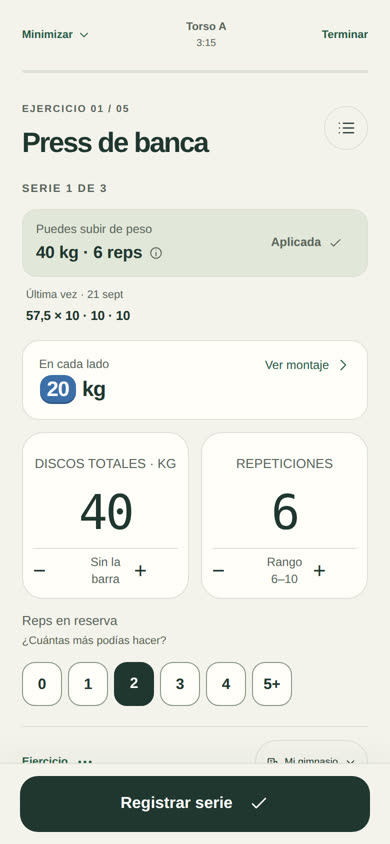
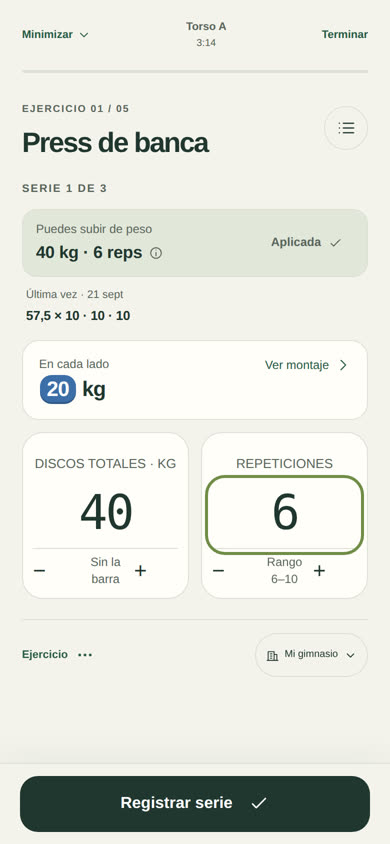
Ask for reps in reserve only when logging in beta 3.14.0
The set form showed a "Reps en reserva" row with an "Elegir" button,
and "Registrar serie" asked for the same value in a sheet anyway. The
row is gone: effort is asked once, on logging, and choosing it confirms
the set in the same tap. The sheet's buttons now enter staggered.

Claude-Session: https://claude.ai/code/session_015cSCpVDGotuvPg9Z1LTxFM

diff --git a/ui.js b/ui.js
@@ -789,7 +789,7 @@ function uiSession(){
   const weightLabel=effEquip(ex.key)==='mancuerna'&&effPoints(ex.key)===2?'Total de las dos':discosOffset(ex.key)>0?'Discos totales':m.type==='asistido'?'Ayuda':corp?'Lastre opcional':'Peso';
   const offset=discosOffset(ex.key),hint=offset>0?'Sin '+(effEquip(ex.key)==='barra'?'la barra':'el aparato'):effEquip(ex.key)==='mancuerna'&&effPoints(ex.key)===2?'Suma ambas manos':m.type==='asistido'?'Menos ayuda = más esfuerzo':corp?'Vacío = sin lastre':uLabelEx(ex.key);
   const prev=ex.sets.slice(0,si).reverse().find(x=>x.done);
-  work=`<div class="n-current-label"><span class="n-eyebrow">Serie ${si+1} de ${ex.sets.length}</span>${prev?uiButton('Repetir anterior',uiAction('uiRepeatSet',xi),'copy','text'):''}</div>${ex.sugg?uiSetProposal(xi,!!prev):`<p class="n-first-hint">${corp?'Registra lo que completes.':'Elige una carga para tu rango.'}</p>`}${uiLastLoad(xi)}<div id="ui-load-${xi}">${uiLoadStrip(xi)}</div><div class="n-set-fields" id="set-${xi}-${si}"><div class="n-set-field"><label for="n-weight">${weightLabel} · ${uLabelEx(ex.key)}</label><input id="n-weight" aria-label="${weightLabel} · ${uLabelEx(ex.key)} · serie ${si+1}" aria-describedby="n-weight-help" type="number" min="0" inputmode="decimal" step="any" placeholder="${corp?'0':'—'}" value="${esc(st.w??'')}" oninput="this.setCustomValidity('');setVal(${xi},${si},'w',this.value)"><div class="n-stepper"><button aria-label="Reducir peso" onclick="uiStep(${xi},${si},'w',-1)">−</button><small id="n-weight-help">${hint}</small><button aria-label="Aumentar peso" onclick="uiStep(${xi},${si},'w',1)">+</button></div></div><div class="n-set-field"><label for="n-reps">${repsLabel}</label><input id="n-reps" aria-label="${repsLabel} de la serie ${si+1}" type="number" min="1" step="1" inputmode="numeric" placeholder="—" value="${esc(st.r??'')}" oninput="this.setCustomValidity('');setVal(${xi},${si},'r',this.value)"><div class="n-stepper"><button aria-label="Reducir ${repsLabel.toLowerCase()}" onclick="uiStep(${xi},${si},'r',-1)">−</button><small>Rango <span>${r.lo}–${r.hi}</span></small><button aria-label="Aumentar ${repsLabel.toLowerCase()}" onclick="uiStep(${xi},${si},'r',1)">+</button></div></div></div>${m.type==='tiempo'?`<div class="n-time-tools">${uiButton(s.setTimer?.key===ex.key&&s.setTimer.si===si?'Retomar cronómetro':'Medir esta serie',uiAction('startSetTimer',xi,si),'clock','text')}<span class="n-time-help">Por tiempo: no se usa RIR.</span></div>`:`<div class="n-rir n-rir-inline"><span>Reps en reserva<small>¿Cuántas más podías hacer?</small></span><div id="n-rir-choice" class="n-rir-chips" role="radiogroup" aria-required="true" aria-label="Repeticiones en reserva" tabindex="-1">${[0,1,2,3,4,5].map(n=>{const on=st.rir!==''&&st.rir!==undefined&&st.rir!==null&&Math.min(5,Number(st.rir))===n;return `<button type="button" role="radio" aria-checked="${on}" aria-label="${n===0?'0, al fallo':n===5?'5 o más':n}" onclick="uiPickRIR(${xi},${si},${n},this)">${n===5?'5+':n}</button>`;}).join('')}</div></div>`}<div class="n-record-dock">${uiButton('Registrar serie',uiAction('uiLogSet',xi,si),'check')}<span class="n-save-status" id="n-draft-status" role="status"></span></div>`;
+  work=`<div class="n-current-label"><span class="n-eyebrow">Serie ${si+1} de ${ex.sets.length}</span>${prev?uiButton('Repetir anterior',uiAction('uiRepeatSet',xi),'copy','text'):''}</div>${ex.sugg?uiSetProposal(xi,!!prev):`<p class="n-first-hint">${corp?'Registra lo que completes.':'Elige una carga para tu rango.'}</p>`}${uiLastLoad(xi)}<div id="ui-load-${xi}">${uiLoadStrip(xi)}</div><div class="n-set-fields" id="set-${xi}-${si}"><div class="n-set-field"><label for="n-weight">${weightLabel} · ${uLabelEx(ex.key)}</label><input id="n-weight" aria-label="${weightLabel} · ${uLabelEx(ex.key)} · serie ${si+1}" aria-describedby="n-weight-help" type="number" min="0" inputmode="decimal" step="any" placeholder="${corp?'0':'—'}" value="${esc(st.w??'')}" oninput="this.setCustomValidity('');setVal(${xi},${si},'w',this.value)"><div class="n-stepper"><button aria-label="Reducir peso" onclick="uiStep(${xi},${si},'w',-1)">−</button><small id="n-weight-help">${hint}</small><button aria-label="Aumentar peso" onclick="uiStep(${xi},${si},'w',1)">+</button></div></div><div class="n-set-field"><label for="n-reps">${repsLabel}</label><input id="n-reps" aria-label="${repsLabel} de la serie ${si+1}" type="number" min="1" step="1" inputmode="numeric" placeholder="—" value="${esc(st.r??'')}" oninput="this.setCustomValidity('');setVal(${xi},${si},'r',this.value)"><div class="n-stepper"><button aria-label="Reducir ${repsLabel.toLowerCase()}" onclick="uiStep(${xi},${si},'r',-1)">−</button><small>Rango <span>${r.lo}–${r.hi}</span></small><button aria-label="Aumentar ${repsLabel.toLowerCase()}" onclick="uiStep(${xi},${si},'r',1)">+</button></div></div></div>${m.type==='tiempo'?`<div class="n-time-tools">${uiButton(s.setTimer?.key===ex.key&&s.setTimer.si===si?'Retomar cronómetro':'Medir esta serie',uiAction('startSetTimer',xi,si),'clock','text')}<span class="n-time-help">Por tiempo: no se usa RIR.</span></div>`:''}<div class="n-record-dock">${uiButton('Registrar serie',uiAction('uiLogSet',xi,si),'check')}<span class="n-save-status" id="n-draft-status" role="status"></span></div>`;
  }
  const logged=ex.sets.map((st,i)=>st.done?`<button class="n-set-chip" onclick="uiEditSet(${xi},${i})" aria-label="Editar serie ${i+1}: ${uiSetDisplay(ex.key,st)}"><span>${i+1}</span>${uiSetDisplay(ex.key,st)}${uiIcon('check')}</button>`:'').join('');
  return `<div class="n-focus">${title}${exerciseNotes(ex.key)&&!resting&&!complete?`<button class="n-session-note" onclick="editExNotes(${xi})" aria-label="Editar tu nota: ${esc(exerciseNotes(ex.key))}">${uiIcon('pin')}<span><small>${m.gymNotes?esc(db.gym.name):'Tu nota'}</small><strong>${esc(exerciseNotes(ex.key))}</strong></span>${uiIcon('edit')}</button>`:''}${work}${typeof pushActive==='function'&&pushActive()&&(resting||preparing)?`<p class="n-push-session" data-push-status role="status">${esc(pushMessage)}</p>`:''}${!resting&&logged?`<div class="n-logged-sets"><span class="n-eyebrow">Ya hiciste · carga total</span><div>${logged}</div></div>`:''}<div class="n-session-tools">${uiButton('Ejercicio',uiAction('uiSessionOptions',xi),'more','text')}${uiGymButton()}</div><div class="vschip" id="vs-${xi}"></div></div>`;
@@ -959,12 +959,7 @@ function uiRIR(xi,si,andLog=false){
  if(exMeta(db.active.exercises[xi].key).type==='tiempo'){infoModal('Segundos, sin RIR','RIR cuenta repeticiones que podrías haber hecho. Para este ejercicio registra el tiempo completado; la propuesta se basa en esa duración.');return;}
  const st=db.active.exercises[xi].sets[si];
  openModal(`<h2>Repeticiones en reserva</h2><p class="muted">${andLog?'Para registrar la serie, anota el esfuerzo. ':''}Al terminar, ¿cuántas más habrías podido hacer con buena técnica?</p><div class="n-rir-grid">${[0,1,2,3,4,5].map(n=>`<button class="${String(st.rir)===String(n)?'on':''}" onclick="uiSetRIR(${xi},${si},'${n}',${andLog?'true':'false'})"><b>${n===5?'5+':n}</b><small>${n===0?'Al fallo':n===5?'Con margen':'en reserva'}</small></button>`).join('')}</div>`);
-}
-/* el esfuerzo se elige en la misma pantalla, de un toque y sin redibujar el formulario */
-function uiPickRIR(xi,si,n,button){
- if(!db.active?.exercises[xi]?.sets[si])return;setVal(xi,si,'rir',String(n));
- button?.parentElement?.querySelectorAll?.('[role=radio]').forEach(b=>b.setAttribute('aria-checked',String(b===button)));
- uxSound('tick',n>=2?1:-1);uxHaptic(6);uxAnim(button,[{transform:'scale(.8)'},{transform:'none'}],{spring:'bouncy'});
+ document.querySelectorAll?.('#modalhost .n-rir-grid button').forEach((b,k)=>uxAnim(b,[{opacity:0,transform:'translateY(14px) scale(.92)'},{opacity:1,transform:'none'}],{spring:'soft',delay:60+k*35}));
 }
 function uiSetRIR(xi,si,val,andLog=false){setVal(xi,si,'rir',val);closeModal();if(andLog){uiLogSet(xi,si);return;}render();uiFocus('n-rir-choice');}
 function uiAddSet(xi){db.active.exercises[xi].sets.push({w:'',r:'',rir:''});uiResetRest();save();closeModal();render();}

diff --git a/ui.css b/ui.css
@@ -1519,13 +1519,6 @@ body:has(.modal) .n-record-dock,body:has(.modal) .n-work-action{visibility:hidde
 }
 @keyframes ux-glow{0%,100%{box-shadow:0 0 0 0 rgba(185,226,125,0)}50%{box-shadow:0 0 0 6px rgba(185,226,125,.45)}}
 @keyframes ux-nudge{0%,80%,100%{transform:none}88%{transform:translateY(-5px)}94%{transform:translateY(1px)}}
-.n-rir-inline{flex-wrap:wrap}
-.n-rir-inline>span{display:flex;flex-direction:column;gap:2px}
-.n-rir-inline>span small{font-size:11px;color:var(--dim)}
-.n-rir-chips{display:flex;gap:6px;outline:none}
-.n-rir-chips button{display:grid;place-items:center;text-align:center;min-width:40px;min-height:44px;padding:0 6px;border:1px solid var(--line-2);border-radius:13px;font-size:15px;font-weight:650;font-variant-numeric:tabular-nums;background:var(--surface);color:var(--ink);transition:background-color .18s ease,color .18s ease,border-color .18s ease}
-.n-rir-chips button[aria-checked=true]{background:var(--ink);border-color:var(--ink);color:var(--surface)}
-@media(max-width:380px){.n-rir-chips{gap:4px}.n-rir-chips button{min-width:36px}}
 .ux-plate{display:inline-block;min-width:1.7em;padding:0 .32em;margin:0 .05em;border-radius:.55em;background:var(--c);color:#fff;text-align:center;box-shadow:inset 0 -2px 0 rgba(0,0,0,.18)}
 .ux-plate.lt{color:#20372f}
 .ux-fly{position:fixed;z-index:9998;width:52px;height:52px;border-radius:50%;display:grid;place-items:center;background:#d8ef96;color:#1d3329;box-shadow:0 8px 20px rgba(0,0,0,.25);pointer-events:none}

diff --git a/tests/run.js b/tests/run.js
@@ -3300,8 +3300,7 @@ Object.assign(exMeta('rir-banca'),{equip:'barra',muscle:'pecho',lo:6,hi:8});exMe
 db.routines=[{id:'rir-day',name:'Torso',split:(db.splits[0]||{}).id,exercises:[{id:'r1',key:'rir-banca',name:'Press banca'},{id:'r2',key:'rir-plancha',name:'Plancha'}]}];
 view={name:'home'};startSession('rir-day');
 let rirEx=db.active.exercises[0];rirEx.sets=rirEx.sets.slice(0,1);rirEx.sets[0].w='40';prepareFixture(0);
-chk(uiSession().includes('aria-required="true"')&&uiSession().includes('role="radiogroup"')&&(uiSession().match(/uiPickRIR\(/g)||[]).length===6&&!uiSession().includes('Opcional'),'el RIR se presenta como necesario y se elige en la misma pantalla');
-uiPickRIR(0,0,3,null);chk(rirEx.sets[0].rir==='3','un toque en la fila guarda el esfuerzo sin abrir otra ventana');setVal(0,0,'rir','');
+chk(!uiSession().includes('n-rir')&&!uiSession().includes('Elegir')&&!uiSession().includes('Opcional'),'la pantalla de la serie no repite el RIR: se pide al registrar');
 setVal(0,0,'r','8');uiLogSet(0,0);
 chk(!rirEx.sets[0].done&&els['modalhost'].innerHTML.includes('n-rir-grid')&&els['modalhost'].innerHTML.includes('Para registrar la serie')&&!els['modalhost'].innerHTML.includes('Dejar sin anotar'),'registrar sin RIR abre el selector, sin opción de dejarlo en blanco');
 uiSetRIR(0,0,'2',true);

diff --git a/README.md b/README.md
@@ -6,7 +6,7 @@ Abre ese enlace en tu teléfono y añádelo a la pantalla de inicio. Se instala 
 
 Los planes y el historial se guardan en tu dispositivo. Puedes restaurar un respaldo de Hierro desde **Tú → Datos y respaldos**. Esta beta utiliza almacenamiento y cachés independientes de la aplicación principal; importar o editar aquí no cambia sus datos. La sincronización cifrada es opcional: crea o vincula tu espacio desde **Tú → Sincronización**. Los avisos remotos se activan por dispositivo y necesitan internet.
 
-La versión **3.14.0** celebra lo que viene: al abrir un día, cada propuesta se revela al verla y «Subir carga» hace rodar el peso hasta el nuevo con destellos y una escala que sube. Registrar también se siente: las reps en reserva se eligen de un toque en la misma pantalla, mantener + o − acelera, los discos por lado llevan su color y llegar al tope del rango se anuncia en el momento. Consulta [la sección 3.14.0](docs/motion-sound-2026-09-23/README.md#3140--lo-que-viene-se-celebra).
+La versión **3.14.0** celebra lo que viene: al abrir un día, cada propuesta se revela al verla y «Subir carga» hace rodar el peso hasta el nuevo con destellos y una escala que sube. Registrar también se siente: las reps en reserva se piden una sola vez al registrar, mantener + o − acelera, los discos por lado llevan su color y llegar al tope del rango se anuncia en el momento. Consulta [la sección 3.14.0](docs/motion-sound-2026-09-23/README.md#3140--lo-que-viene-se-celebra).
 
 La versión **3.13.0** añade movimiento y sonido sin cambiar el diseño. Las vistas entran con suavidad, los números cuentan, los relojes ruedan y el póster final celebra con confeti, fanfarria y el dibujo de su comparación. Registrar una serie, calentar y terminar un descanso tienen sonidos propios, sintetizados en el dispositivo y disponibles sin conexión. Todo respeta Sonido, Vibración, Animaciones y «Reducir movimiento». Consulta [qué se mueve y qué suena](docs/motion-sound-2026-09-23/README.md).
 

diff --git a/docs/motion-sound-2026-09-23/README.md b/docs/motion-sound-2026-09-23/README.md
@@ -49,10 +49,10 @@ La app se usa en ráfagas: desbloquear, anotar peso y repeticiones, bloquear. Y 
 2. **Inicio anticipa.** En «Tus días», el número de ejercicios para avanzar cuenta y da un pequeño salto cada pocos segundos.
 3. **El tope del rango se nota al registrar.** Si la serie que acabas de guardar llega al tope, aparece «Tope del rango: 10 reps» con su propia campana, además del «clac». Si todas las series del ejercicio llegaron, dice «Todas tus series en el tope del rango» y suena la escala de subir. No promete una subida: la decide el motor con su historial y tu equipo.
 
-4. **Registrar se siente.** Las reps en reserva se eligen en la misma pantalla con seis botones (0 a 5+), de un toque y sin abrir otra ventana; si faltan, «Registrar serie» las sigue pidiendo como antes. Mantener pulsado + o − avanza solo y acelera. Los discos por lado aparecen como fichas con su color (rojo 25, azul 20, amarillo 15, verde 10, blanco 5…). Al registrar, un check sale del botón y aterriza en «Serie guardada». Terminar todas las series de un ejercicio tiene su propio cierre sonoro.
+4. **Registrar se siente.** La fila «Reps en reserva» con su botón «Elegir» desaparece de la pantalla de la serie: el esfuerzo se pide una sola vez, al tocar «Registrar serie», y elegirlo guarda la serie en el mismo toque. Sus botones entran escalonados. Mantener pulsado + o − avanza solo y acelera. Los discos por lado aparecen como fichas con su color (rojo 25, azul 20, amarillo 15, verde 10, blanco 5…). Al registrar, un check sale del botón y aterriza en «Serie guardada». Terminar todas las series de un ejercicio tiene su propio cierre sonoro.
 
 ![Subir carga: el peso ya rodó a 60 y el +2,5 kg sale con destellos](forecast-up-390.jpg)
-![Reps en reserva de un toque y los discos por lado con su color](log-rir-plates-390.jpg)
+![La serie sin fila de RIR y los discos por lado con su color](log-rir-plates-390.jpg)
 ![Tope del rango al registrar la serie](top-range-390.jpg)
 
 ## Verificación
